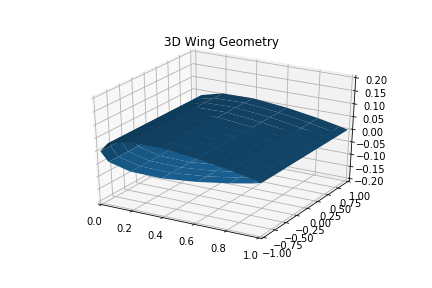
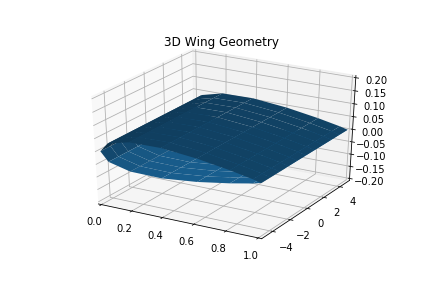
+Daf201219

diff --git a/Main_Program.py b/Main_Program.py
@@ -9,11 +9,20 @@ import Wing_Generator
 
 from funclass import Freestream, Panel, calculate_sigma, influence_coeff, wake_influence_coeff
 
+import calculate_cp
+
 # Global Input Parameter
 mu = 1.0    # Kinematic Viscosity
 U_inf = 1.0 # Freestream Velocity
-alpha = 0.0 # AoA in Degree
+alpha = 5.0 # AoA in Degree
 alpha = alpha*math.pi/180.0 # Convert AoA to radian
+beta = 0.0
+beta = beta*math.pi/180.0
+ro = 1.122
+q = 0.5*ro*numpy.power(U_inf,2)
+Vx = U_inf*numpy.cos(alpha)*numpy.cos(beta)
+Vy = U_inf*numpy.sin(beta)
+Vz = U_inf*numpy.cos(beta)*numpy.sin(alpha)
 
 # Airfoil Parameter (NACA 4-digit)
 m = 0/100   # Maximum Camber
@@ -22,11 +31,13 @@ t = 12/100  # Maximum Thickness
 Na = 15     # Number of Airfoil Points (Odd) (1==Na)
 
 # Wing Parameter
-b = 2.0         # Wing Span
+b = 10.0         # Wing Span
 Lambda = 1.0    # Taper Ratio
 theta = 0.0    # Sweep Angle in Degree
 cr = 1.0        # Chord Root
 Np = 11         # Number of Airfoil Section (Odd)
+
+Sw = b*cr
 
 ct = Lambda*cr # Chord Tip
 theta = theta*math.pi/180.0 # Convert Sweep Angle to radian
@@ -36,7 +47,7 @@ xa,ya = Airfoil_Generator.NACA4Digit(Na,m,p,t)              # Output : Airfoil C
 
 # 2. Create Wing and Panel
 xw,yw,zw,xwake,ywake,zwake = Wing_Generator.Geo_Wing(xa,ya,Np,b,cr,ct,theta)  # Output : Wing Coordinate (x,y,z)
-cx,cy,cz,x1,x2,x3,x4,y1,y2,y3,y4,S,nx,ny,nz,X,Y,Z, x1_wake,x2_wake,x3_wake,x4_wake,y1_wake,y2_wake,y3_wake,y4_wake,S_wake,X_wake,Y_wake,Z_wake = Wing_Generator.Panel_Wing(Na,Np,xw,yw,zw,xwake,ywake,zwake) 
+cx,cy,cz,x1,x2,x3,x4,y1,y2,y3,y4,S,nx,ny,nz,ux,uy,uz,px,py,pz,ox,oy,oz,X,Y,Z, x1_wake,x2_wake,x3_wake,x4_wake,y1_wake,y2_wake,y3_wake,y4_wake,S_wake,X_wake,Y_wake,Z_wake = Wing_Generator.Panel_Wing(Na,Np,xw,yw,zw,xwake,ywake,zwake) 
 
 # 3. Panel Objects, Influence Coefficients, Singularities Strength 
 # 3.1 Wing Panels
@@ -99,15 +110,17 @@ plt.plot(cx_mat[:,Np12],[panel.myu for panel in panels_mat[:,Np12]] )
 
 plt.figure(6)
 plt.plot(cx_mat[:,Np12],[panel.sigma for panel in panels_mat[:,Np12]] )
-plt.show()
+
 
 # print([panel.myu for panel in panels_mat[:,Np12]])
 ql,qm,v,cp,CX,CY,CZ,ql,qo,gu,go = calculate_cp.output(N_panel,Np,cx,cy,cz,panels,ux,uy,uz,px,py,pz,ox,oy,oz,nx,ny,nz,U_inf,Vx,Vy,Vz,S,Sw,q,b,cr)
 # print([panel.myu for panel in panels_mat[:,Np12]])
 
+n_plot = int((Na-1)/2)
+n_plot1 = (Na-1)
 #Upper part
 fig = plt.figure()
-plt.contourf(cy_mat[0:25,:],cx_mat[0:25,:],cp[0:25,:],20,cmap=cm.jet)
+plt.contourf(cy_mat[0:n_plot,:],cx_mat[0:n_plot,:],cp[0:n_plot,:],20,cmap=cm.jet)
 plt.title('Cp distribution upper wing')
 plt.xlabel('y')
 plt.ylabel('x')
@@ -115,8 +128,36 @@ plt.colorbar()
 
 #Lower part
 fig = plt.figure()
-plt.contourf(cy_mat[25:50,:],cx_mat[25:50,:],cp[25:50,:],20,cmap=cm.jet)
+plt.contourf(cy_mat[n_plot:n_plot1,:],cx_mat[n_plot:n_plot1,:],cp[n_plot:n_plot1,:],20,cmap=cm.jet)
 plt.title('Cp distribution lower wing')
 plt.xlabel('y')
 plt.ylabel('x')
 plt.colorbar()
+
+n_span = Np-2
+
+#Plot cp di tengah sayap
+fig = plt.figure()
+plt.plot(cx_mat[0:n_plot,5],cp[0:n_plot,5])
+plt.plot(cx_mat[n_plot:n_plot1,5],cp[n_plot:n_plot1,5])
+plt.gca().invert_yaxis()
+plt.xlabel('x')
+plt.ylabel('-cp')
+
+#Plot cp di kiri sayap
+fig = plt.figure(7)
+plt.plot(cx_mat[0:n_plot,0],cp[0:n_plot,0])
+plt.plot(cx_mat[n_plot:n_plot1,0],cp[n_plot:n_plot1,0])
+plt.gca().invert_yaxis()
+plt.xlabel('x')
+plt.ylabel('-cp')
+
+#Plot cp di kanan sayap
+fig = plt.figure(8)
+plt.plot(cx_mat[0:n_plot,n_span],cp[0:n_plot,n_span])
+plt.plot(cx_mat[n_plot:n_plot1,n_span],cp[n_plot:n_plot1,n_span])
+plt.gca().invert_yaxis()
+plt.xlabel('x')
+plt.ylabel('-cp')
+
+plt.show()

diff --git a/Wing_Generator.py b/Wing_Generator.py
@@ -297,6 +297,10 @@ def Panel_Wing(Na,Np,x,y,z,xwake,ywake,zwake):
     ux = np.reshape(ux,(-1))
     uy = np.reshape(uy,(-1))
     uz = np.reshape(uz,(-1))
+    
+    px = np.reshape(px,(-1))
+    py = np.reshape(py,(-1))
+    pz = np.reshape(pz,(-1))
 
     ox = np.reshape(ox,(-1))
     oy = np.reshape(oy,(-1))
@@ -329,5 +333,4 @@ def Panel_Wing(Na,Np,x,y,z,xwake,ywake,zwake):
             Zwake[i][j] = (cx[j]-cxwake[i])*nxwake[i]+(cy[j]-cywake[i])*nywake[i]+(cz[j]-czwake[i])*nzwake[i]
     
     # Return Values 
-    return cx,cy,cz,x1,x2,x3,x4,y1,y2,y3,y4,S,nx,ny,nz,X,Y,Z,x1w,x2w,x3w,x4w,y1w,y2w,y3w,y4w,Swake,Xwake,Ywake,Zwake
-
+    return cx,cy,cz,x1,x2,x3,x4,y1,y2,y3,y4,S,nx,ny,nz,ux,uy,uz,px,py,pz,ox,oy,oz,X,Y,Z,x1w,x2w,x3w,x4w,y1w,y2w,y3w,y4w,Swake,Xwake,Ywake,Zwake
